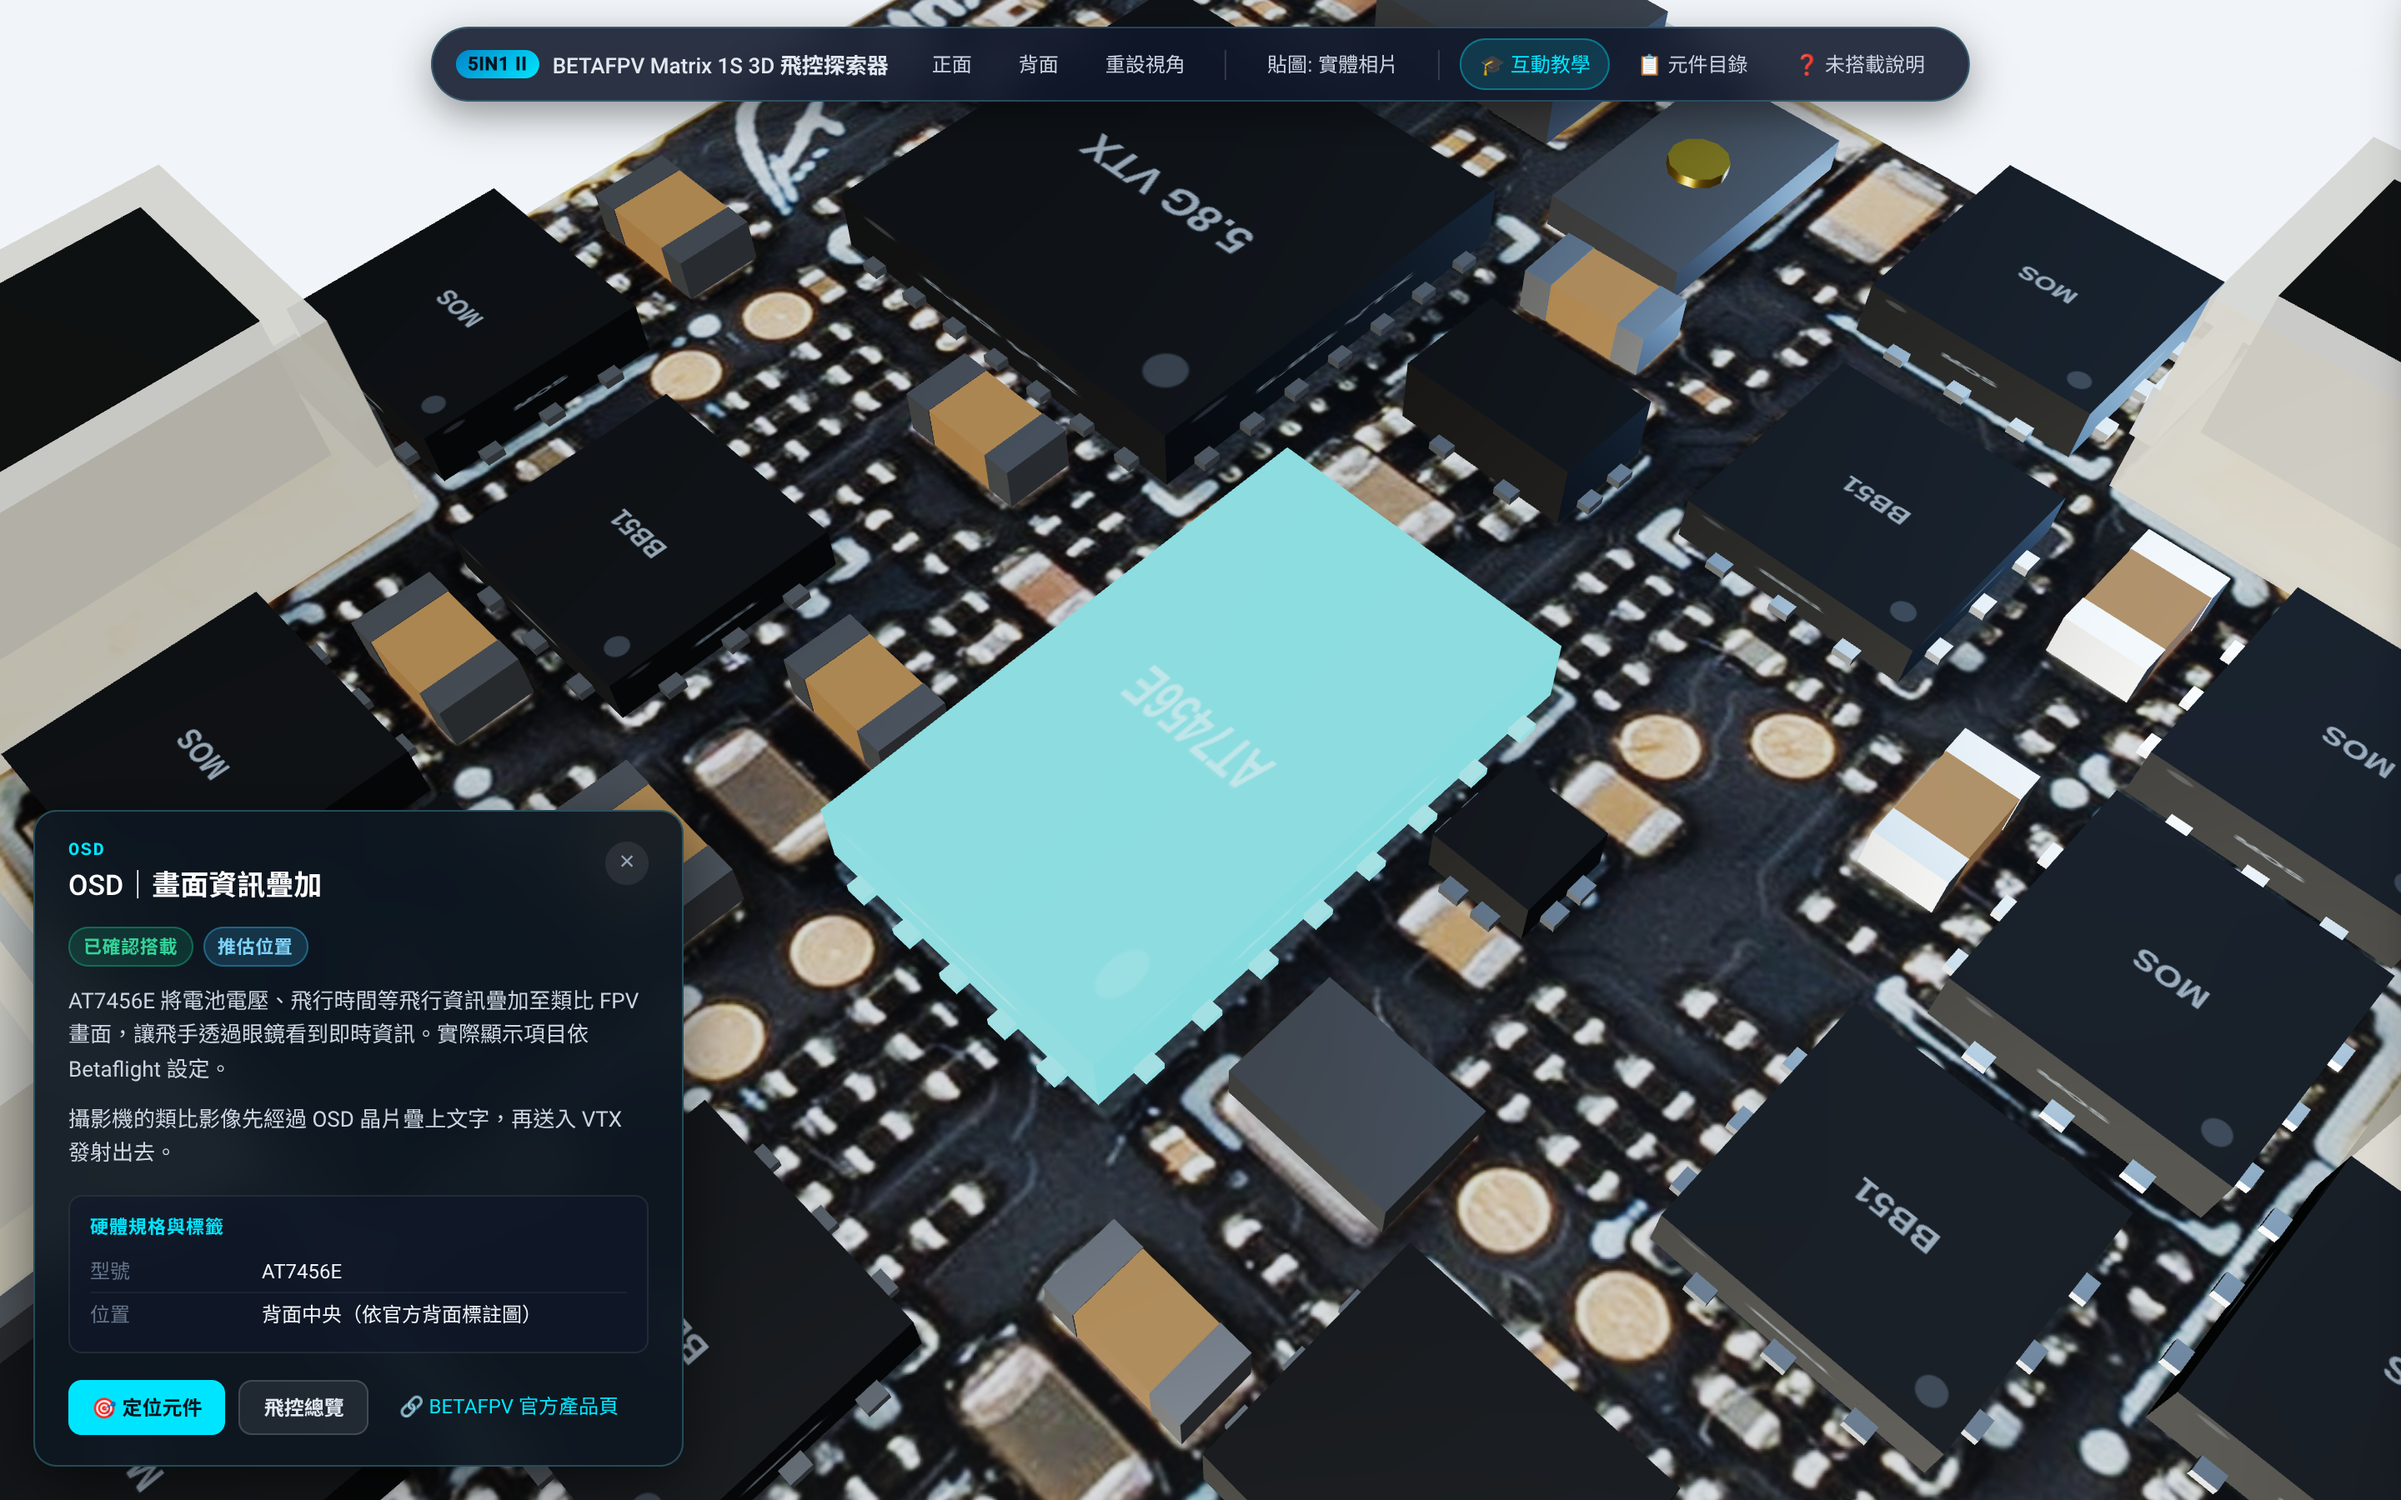
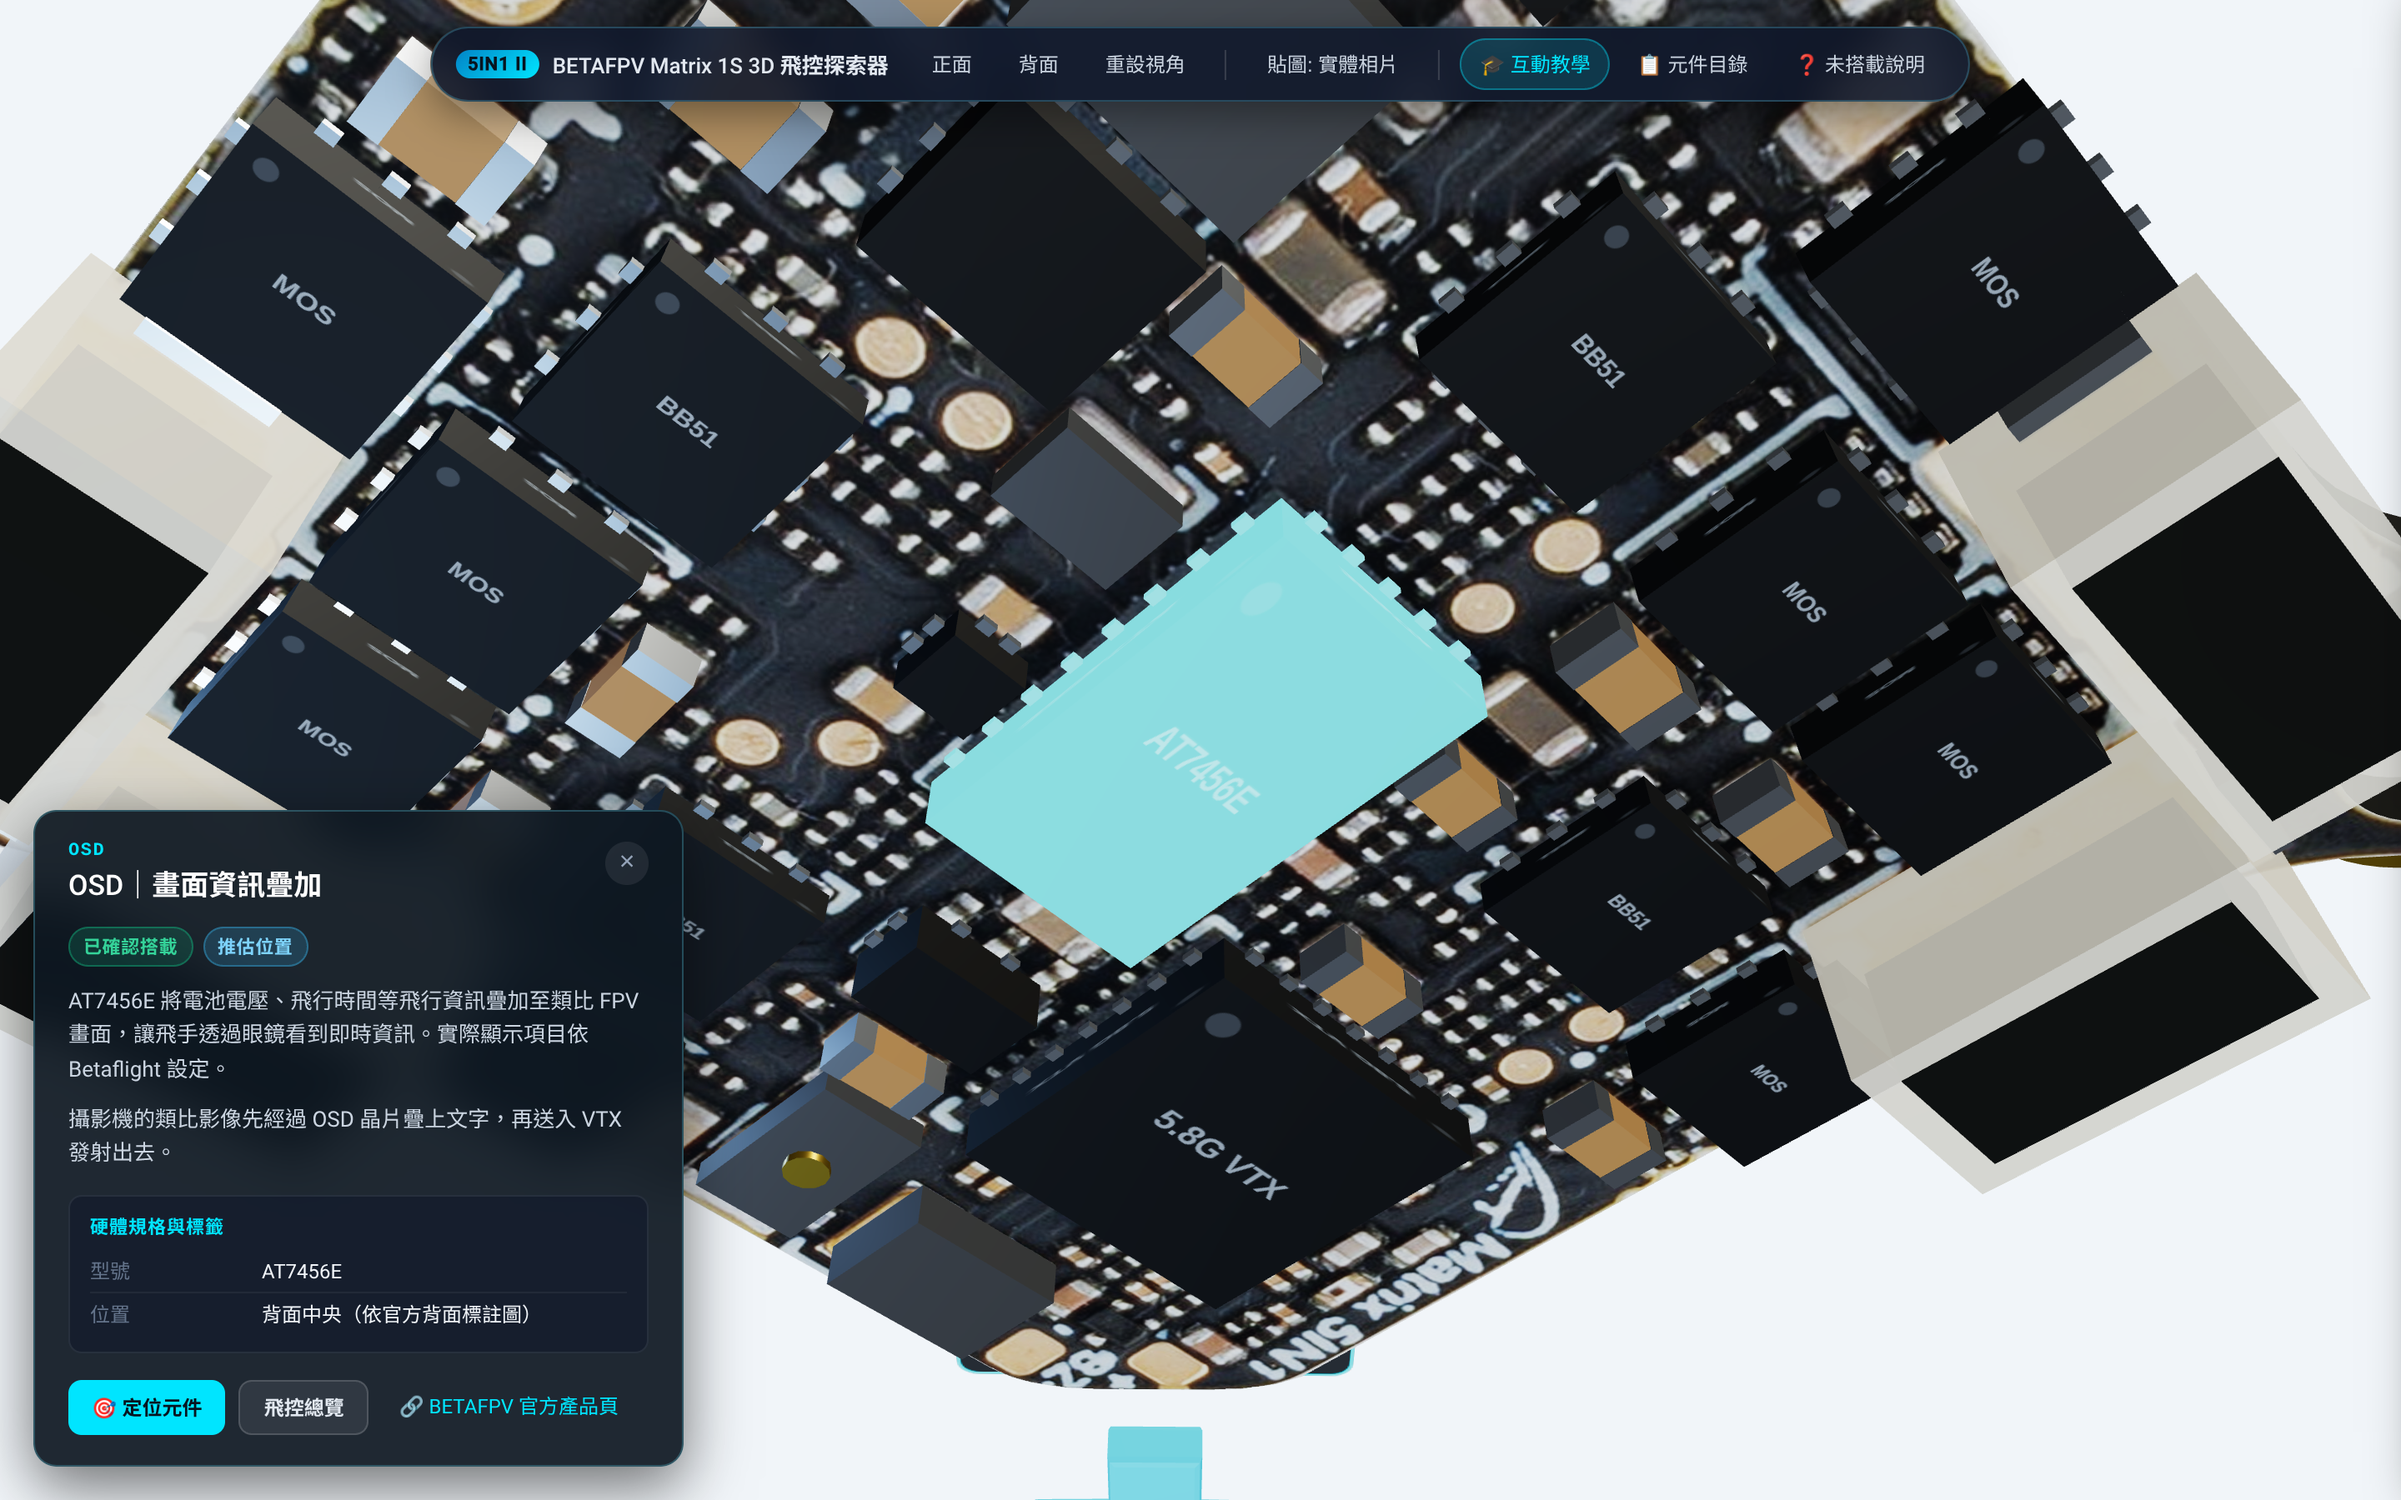
fix(controls): fix bottom orbit gimbal lock and preserve standard upright coordinate system

diff --git a/src/scene/cameraControls.ts b/src/scene/cameraControls.ts
@@ -23,8 +23,9 @@ export class CameraManager {
     this.controls.dampingFactor = 0.08;
     this.controls.minDistance = 14;
     this.controls.maxDistance = 130;
-    this.controls.maxPolarAngle = Math.PI; // allow full flip
-    this.controls.minPolarAngle = 0;
+    // Keep a slight padding from exact poles (0 and PI) to avoid Gimbal lock singularities
+    this.controls.minPolarAngle = 0.02;
+    this.controls.maxPolarAngle = Math.PI - 0.02;
   }
 
   update(delta: number) {
@@ -41,7 +42,9 @@ export class CameraManager {
 
       if (t >= 1) {
         this.isTransitioning = false;
+        this.camera.up.set(0, 1, 0);
         this.controls.enabled = true;
+        this.controls.update();
       }
     } else {
       this.controls.update();
@@ -73,20 +76,20 @@ export class CameraManager {
   }
 
   viewTop() {
-    // Top view: looking straight down, with front (-Z) pointing up on screen
+    // Top view: looking toward front-top of board, with front (-Z) pointing up on screen
     this.animateTo(
-      new THREE.Vector3(0, 56, 0.001),
+      new THREE.Vector3(0, 54, 18),
       new THREE.Vector3(0, 0, 0),
-      new THREE.Vector3(0, 0, -1)
+      new THREE.Vector3(0, 1, 0)
     );
   }
 
   viewBottom() {
-    // Bottom view: looking from below up at board, with front (-Z) pointing up on screen
+    // Bottom view: perspective view from below-behind looking up at bottom face, with front (-Z) pointing up on screen
     this.animateTo(
-      new THREE.Vector3(0, -56, 0.001),
+      new THREE.Vector3(0, -48, 42),
       new THREE.Vector3(0, 0, 0),
-      new THREE.Vector3(0, 0, -1)
+      new THREE.Vector3(0, 1, 0)
     );
   }
 
@@ -100,9 +103,9 @@ export class CameraManager {
 
   focusPart(worldPos: THREE.Vector3, side: 'top' | 'bottom' | 'annotation') {
     const isBottom = side === 'bottom';
-    const yOffset = isBottom ? -18 : 18;
-    const zOffset = isBottom ? 12 : 12;
-    const upVector = isBottom ? new THREE.Vector3(0, 0, -1) : new THREE.Vector3(0, 1, 0);
+    const yOffset = isBottom ? -22 : 22;
+    const zOffset = isBottom ? 18 : 18;
+    const upVector = new THREE.Vector3(0, 1, 0);
 
     const camTargetPos = new THREE.Vector3(
       worldPos.x * 0.7,
